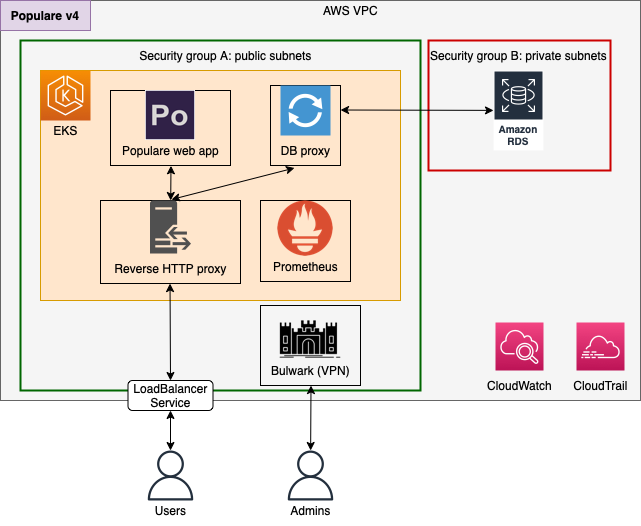
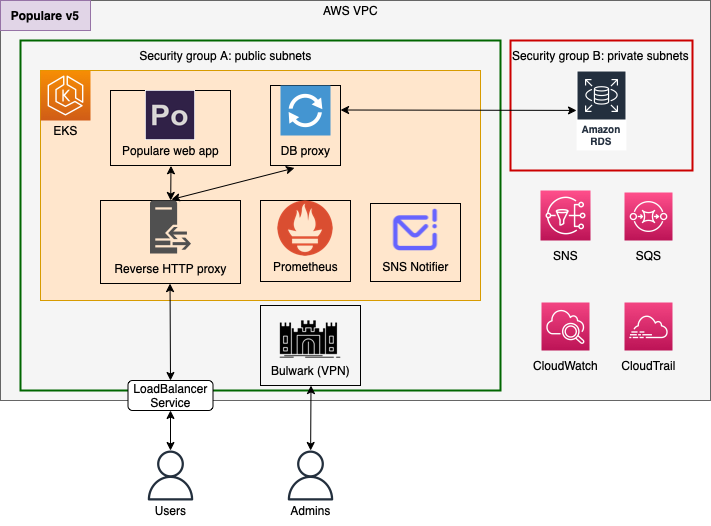
Closes #42

diff --git a/README.md b/README.md
@@ -16,6 +16,7 @@ We deploy the following microservices.
 * [Populare web app](https://github.com/kostaleonard/populare)
 * [Populare database proxy](https://github.com/kostaleonard/populare-db-proxy)
 * [Populare reverse proxy](https://github.com/kostaleonard/populare-reverse-proxy)
+* [Populare SNS notifier](https://github.com/kostaleonard/populare-sns-notifier)
 * [Prometheus](https://github.com/prometheus/prometheus)
 * [Wireguard](https://github.com/linuxserver/docker-wireguard)
 
